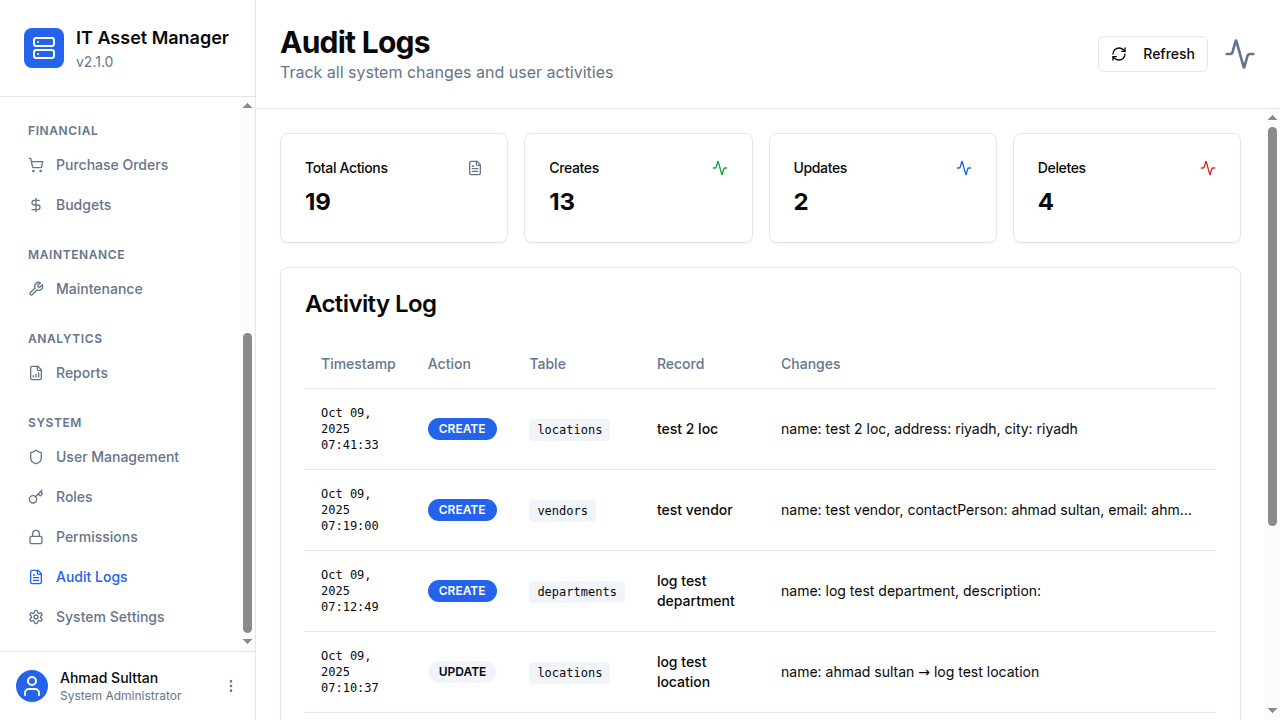
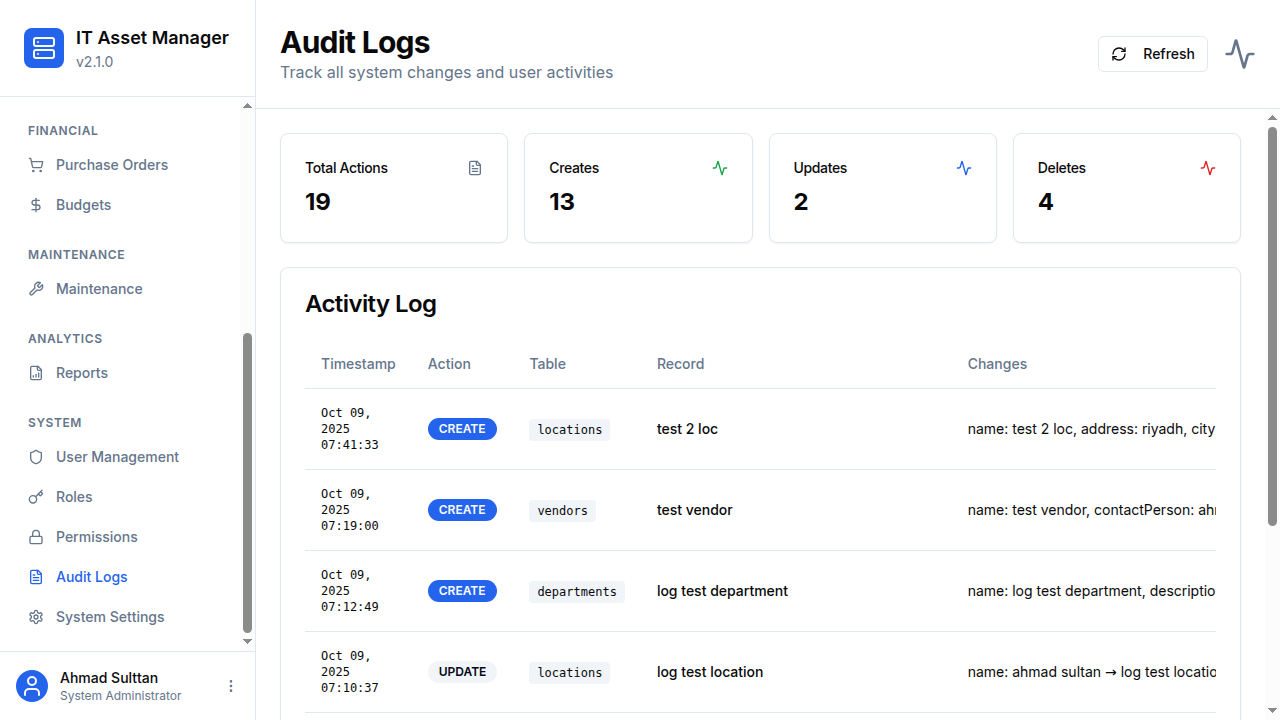
Adjust audit log table columns to fit all data in view
Update client/src/pages/audit-logs.tsx to adjust column widths for the audit log table, ensuring all data is visible without horizontal scrolling.

Replit-Commit-Author: Agent
Replit-Commit-Session-Id: 6c6c2bdd-faa9-42ff-9a74-881f64a41c2f
Replit-Commit-Checkpoint-Type: full_checkpoint
Replit-Commit-Screenshot-Url: https://storage.googleapis.com/screenshot-production-us-central1/0ed3db1e-2376-40f3-a959-6bba59864d52/6c6c2bdd-faa9-42ff-9a74-881f64a41c2f/IRVlNDP

diff --git a/client/src/pages/audit-logs.tsx b/client/src/pages/audit-logs.tsx
@@ -153,32 +153,32 @@ export default function AuditLogs() {
                   <Table>
                     <TableHeader>
                       <TableRow>
-                        <TableHead>Timestamp</TableHead>
-                        <TableHead>Action</TableHead>
-                        <TableHead>Table</TableHead>
-                        <TableHead>Record</TableHead>
-                        <TableHead>Changes</TableHead>
-                        <TableHead>User</TableHead>
+                        <TableHead className="w-[135px]">Timestamp</TableHead>
+                        <TableHead className="w-[75px]">Action</TableHead>
+                        <TableHead className="w-[95px]">Table</TableHead>
+                        <TableHead className="w-[110px]">Record</TableHead>
+                        <TableHead className="w-[250px]">Changes</TableHead>
+                        <TableHead className="w-[135px]">User</TableHead>
                       </TableRow>
                     </TableHeader>
                     <TableBody>
                       {auditLogs.map((log) => (
                         <TableRow key={log.id} data-testid={`audit-log-${log.id}`}>
-                          <TableCell className="font-mono text-xs">
+                          <TableCell className="font-mono text-xs w-[135px]">
                             {log.timestamp ? format(new Date(log.timestamp), "MMM dd, yyyy HH:mm:ss") : "-"}
                           </TableCell>
-                          <TableCell>{getActionBadge(log.action)}</TableCell>
-                          <TableCell>
-                            <code className="bg-muted px-2 py-1 rounded text-xs">{log.tableName}</code>
+                          <TableCell className="w-[75px]">{getActionBadge(log.action)}</TableCell>
+                          <TableCell className="w-[95px]">
+                            <code className="bg-muted px-1 py-0.5 rounded text-xs">{log.tableName}</code>
                           </TableCell>
-                          <TableCell className="font-medium">{log.recordName || log.recordId}</TableCell>
-                          <TableCell className="max-w-md truncate text-sm">
+                          <TableCell className="font-medium w-[110px] truncate text-sm">{log.recordName || log.recordId}</TableCell>
+                          <TableCell className="w-[250px] truncate text-xs">
                             {formatChanges(log.oldValues, log.newValues)}
                           </TableCell>
-                          <TableCell>
-                            <div className="flex items-center gap-2">
-                              <User className="h-4 w-4 text-muted-foreground" />
-                              <span className="text-sm font-medium">{log.username || "System"}</span>
+                          <TableCell className="w-[135px]">
+                            <div className="flex items-center gap-1">
+                              <User className="h-3 w-3 text-muted-foreground flex-shrink-0" />
+                              <span className="text-xs truncate">{log.username || "System"}</span>
                             </div>
                           </TableCell>
                         </TableRow>
